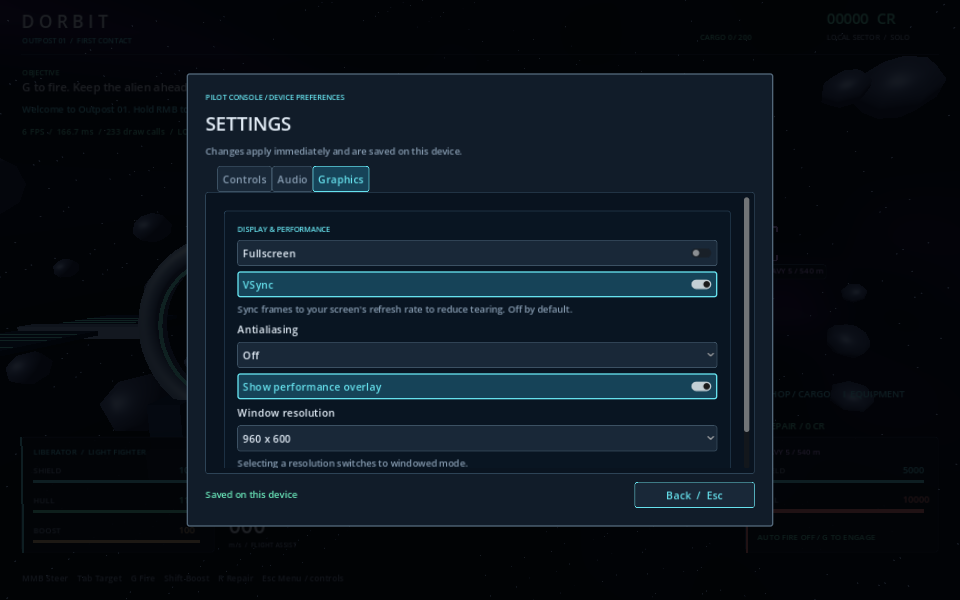
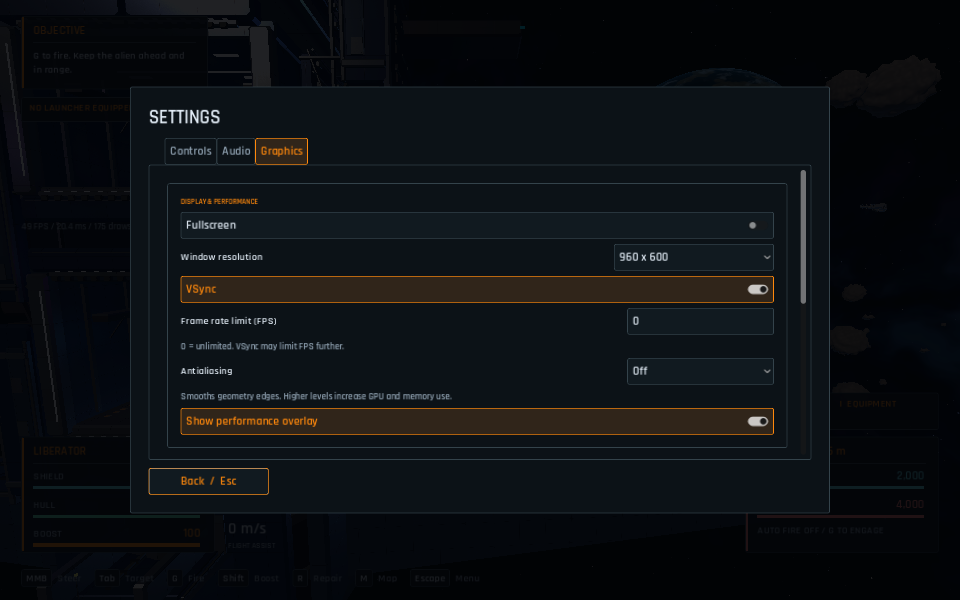
feat: add typed frame rate limit to graphics settings

diff --git a/GAME_PLAN.md b/GAME_PLAN.md
@@ -67,7 +67,7 @@ guidance takes priority until safe re-entry, then restores the chosen destinatio
 If no clear route exists, it cancels with feedback. Arrival distances, turn speed
 and clearance remain playtesting settings.
 
-Settings are available from the connection menu and the Esc flight menu. Players can adjust mouse sensitivity, master/effects volume and mute, and rebind flight and combat actions to a single key or mouse button. Assigning an occupied binding swaps the actions; default controls can be restored. Fullscreen, window resolution, VSync, antialiasing and the performance overlay live on the Graphics tab. VSync is disabled by default and can be enabled to synchronize rendering with the screen's refresh rate. Changes apply immediately and persist on the device, except anisotropic strength changes that require restarting the Compatibility renderer. Menu shortcuts remain fixed so settings and navigation stay accessible. In multiplayer, menus stop the local pilot's input and fire while the server continues running.
+Settings are available from the connection menu and the Esc flight menu. Players can adjust mouse sensitivity, master/effects volume and mute, and rebind flight and combat actions to a single key or mouse button. Assigning an occupied binding swaps the actions; default controls can be restored. Fullscreen, window resolution, VSync, a typed frame rate limit, antialiasing and the performance overlay live on the Graphics tab. The frame rate limit accepts whole numbers from 1 to 1000 FPS, with 0 for unlimited by default. Enter, leaving the field or closing settings applies and saves the limit on the device. Invalid input retains the previous limit. Dedicated servers do not apply device frame rate limits. VSync is disabled by default and can be enabled to synchronize rendering with the screen's refresh rate; it may limit FPS further. Changes apply immediately and persist on the device, except anisotropic strength changes that require restarting the Compatibility renderer. Menu shortcuts remain fixed so settings and navigation stay accessible. In multiplayer, menus stop the local pilot's input and fire while the server continues running.
 
 Original flight tuning before the ship roster: 36 m/s cruise, 78 m/s boost, 40 m/s² acceleration, 60 m/s² braking, 80 m/s² counter-thrust, and a 65 ms mouse-steering response time constant. From cruise, release stops the ship in about 0.6 seconds; mouse steering completes about 95% of a turn command within 0.2 seconds. These values remain tuning decisions.
 

diff --git a/README.md b/README.md
@@ -260,7 +260,7 @@ Shields split each hit between shield and hull: starter generators absorb 40%, a
 
 Esc opens the flight menu and releases the mouse. Choose **Settings** there or in the connection menu. The Controls tab adjusts mouse sensitivity from 0.1x to 3x and rebinds movement, steering, targeting, fire, boost and repair. Select an action, then press a key or mouse button. Occupied bindings swap actions; Esc cancels capture. Restore default controls resets bindings and sensitivity. HUD prompts follow your bindings.
 
-The Audio tab has master/effects volume, mute and a test sound. The Graphics tab contains fullscreen, VSync, antialiasing, the performance overlay and window resolution. VSync is off by default; enable it to synchronize rendering with your screen's refresh rate and reduce tearing. Resolution choices fit the current screen with room for borders and the taskbar. Selecting one switches to windowed mode; fullscreen uses the desktop resolution. You can also resize the window manually. Mouse steering uses unscaled screen motion so viewport scaling does not change sensitivity.
+The Audio tab has master/effects volume, mute and a test sound. The Graphics tab contains fullscreen, VSync, a typed frame rate limit, antialiasing, the performance overlay and window resolution. Enter a whole-number FPS limit from 1 to 1000, or 0 for unlimited, then press Enter or leave the field to apply and save it. The default is unlimited. VSync is off by default; enable it to synchronize rendering with your screen's refresh rate and reduce tearing. VSync may limit FPS below the entered cap. Resolution choices fit the current screen with room for borders and the taskbar. Selecting one switches to windowed mode; fullscreen uses the desktop resolution. You can also resize the window manually. Mouse steering uses unscaled screen motion so viewport scaling does not change sensitivity.
 
 Changes apply immediately except anisotropic strength changes, which require restarting the game. Controls and graphics persist in `user://settings.cfg`, and existing audio preferences remain in `user://audio.cfg`. Esc returns to the previous menu. Fixed shortcuts remain available outside settings: F11 toggles fullscreen, F3 shows performance, F4 toggles antialiasing, and F5/F6 cycle resolutions while paused. F10 quits from a menu. The server keeps running while menus are open; losing focus releases your controls, but incoming damage can continue.
 
